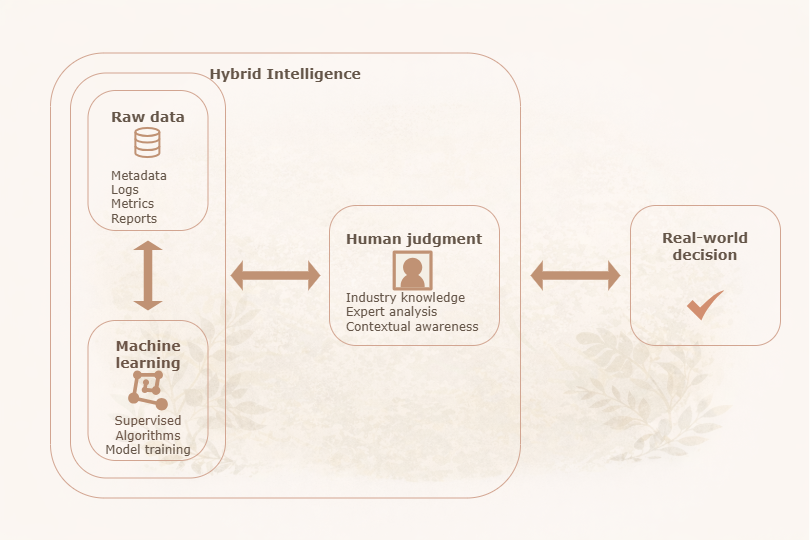
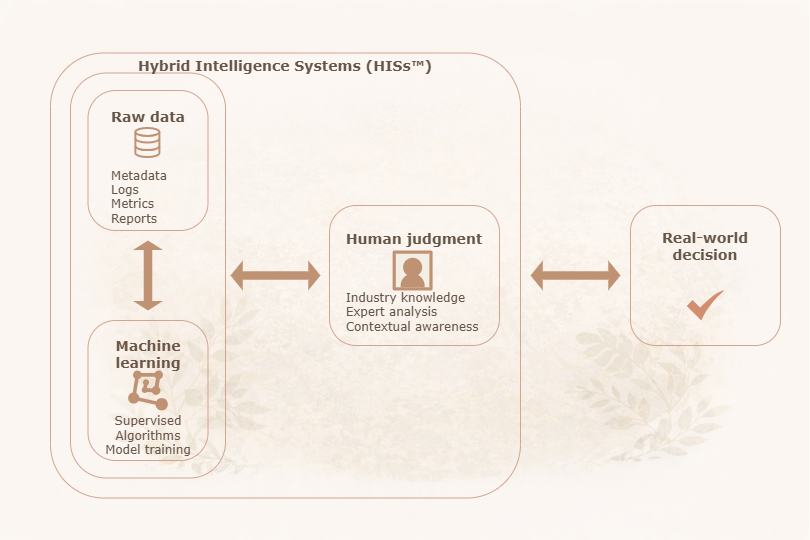
add support button

Changed region(s): [[0.1543, 0.0889, 0.5247, 0.1481]]

diff --git a/careers.html b/careers.html
@@ -195,6 +195,18 @@
         Xi has a PhD in Information Technology from King's College London and 10+ years of experience
         applying modelling and AI to real-world problems in telecommunications, healthcare, finance, and sustainability.
       </p>
+      <p><a
+          href="https://xilu.sloxen.com/support.html"
+          target="_blank"
+          rel="noopener"
+          class="pill"
+          style="display:inline-block;
+          text-decoration:none;
+          font-weight: 800;"
+        >
+          support Sloxen™ and HISs™
+        </a>
+      </p> 
 
     </div>
   </section>